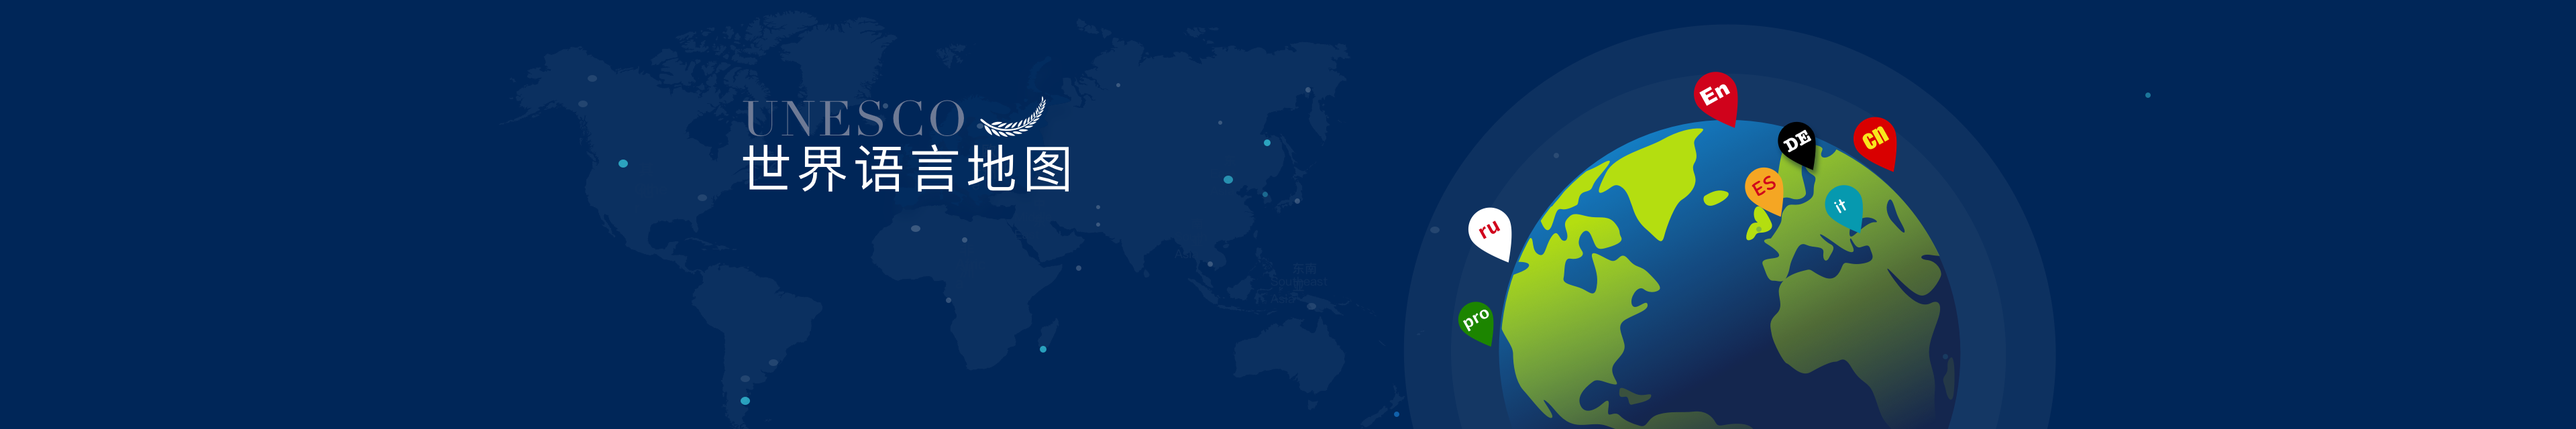
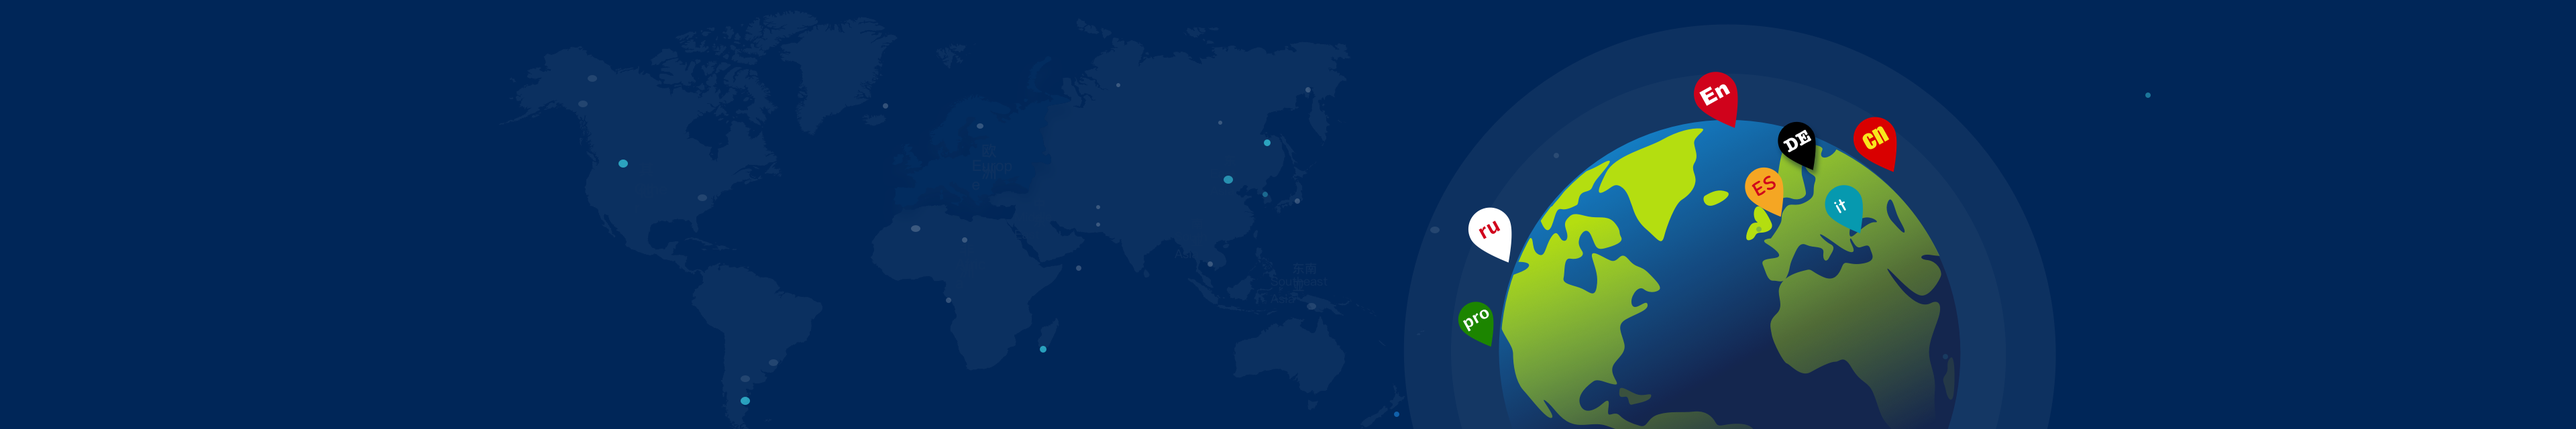
世界语言地图背景图样式修改

Changed region(s): [[0.2812, 0.2188, 0.4375, 0.4688]]

diff --git a/src/components/learn/bookCase/bookCase.vue b/src/components/learn/bookCase/bookCase.vue
@@ -2,6 +2,7 @@
   <div>
     <router-link class="banner" :to="{path: '/app/world-map'}">
     <div class="describe">
+      <div class="banner-title"></div>
       <p>
         <span>共收录</span>{{langMapNum}}<span>种语言</span>
       </p>
@@ -135,30 +136,32 @@ export default {
     background-size: cover;
     object-fit: cover;
   }
+
   .banner .describe {
-    width: 100%;
+    width: 500px;
     height: 100%;
-    margin: 0 auto;
+    margin-left: 30%;
+  }
+
+  .banner .describe .banner-title {
+    width: 244px;
+    height: 72px;
+    background-image: url('../../../../static/images/course/book-case-banner-title.png');
+    background-repeat: no-repeat;
+    background-size: cover;
+    object-fit: cover;
+    margin-top: 70px;
   }
 
   .banner .describe > p {
     position: relative;
-    left: 555px;
-    top: 160px;
+    top: 60px;
     font-size: 28px;
     color: #b9ec10;
   }
-  @media only screen and (min-width: 1900px) {
-    .describe {
-      width: 1200px !important;
-    }
-    .describe > p {
-      left: 118px;
-      top: 177px
-    }
-  }
+
   .banner .describe > p:nth-child(2) {
-    top: 206px;
+    top: 10px;
   }
 
   .banner .describe > p > span {
